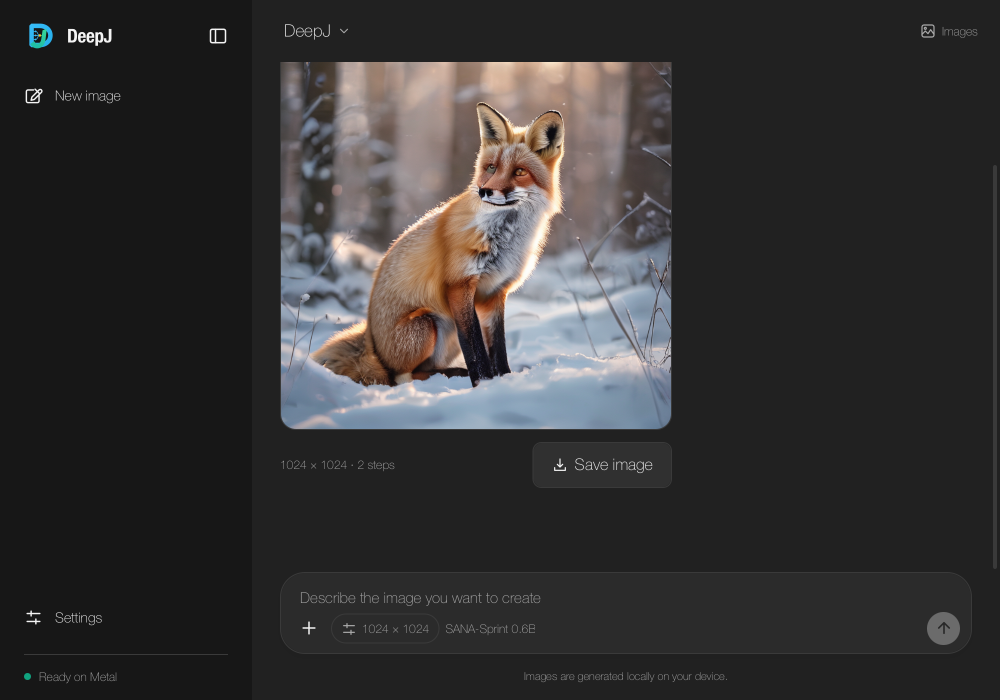
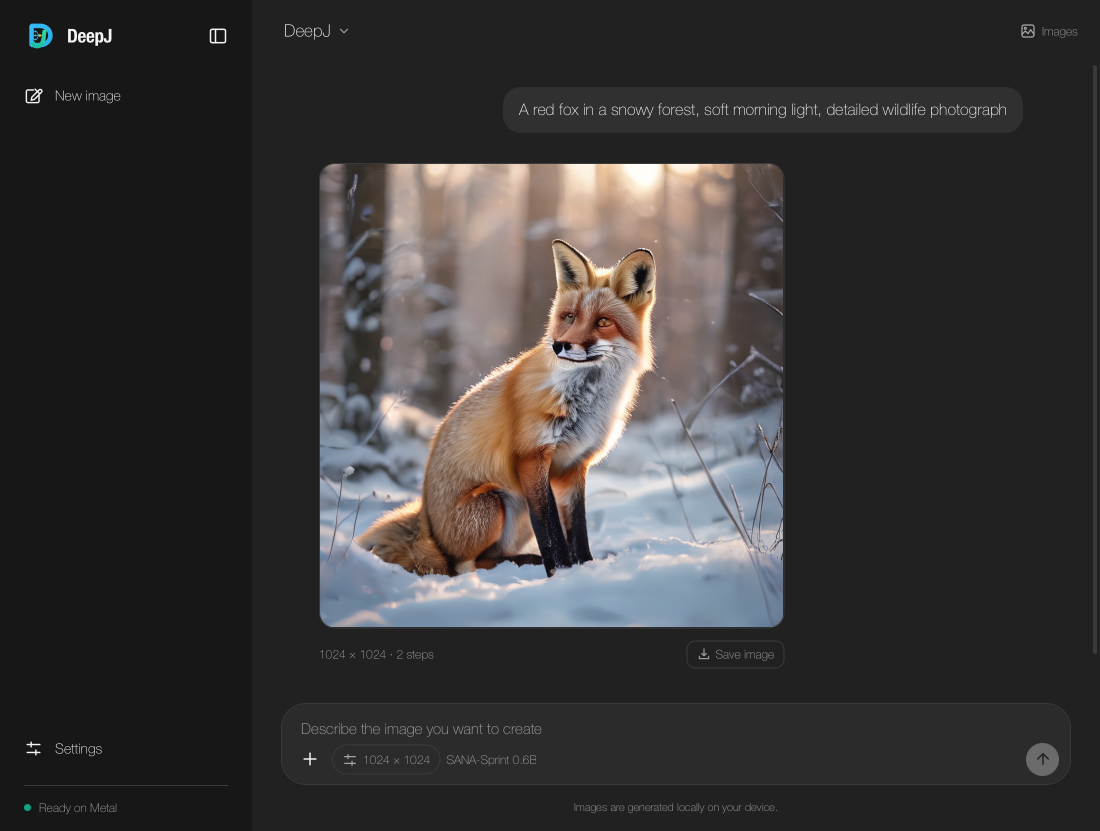
Highlight scoped inference measurements and refresh the SANA UI screenshot

diff --git a/README.md b/README.md
@@ -30,6 +30,20 @@ The optional [ONNX module](onnx/README.md) imports supported ONNX graphs for inf
 | Decoder Transformers | DeepJ Origin, Orbit, Prism, Nova, Loop, Qwen3, and Gemma 2 for causal language modeling |
 | Diffusion models | SANA-Sprint 0.6B for text-to-image and [SANA-Video 2B](docs/sana-video.md) for text-to-video generation |
 
+## Java inference, measured
+
+Qwen3-1.7B runs through DeepJ's own tensor backend. In short **FP32 tests on an Apple M4**, CPU cached decoding was faster than PyTorch, CPU prompt processing was within 8%, and Metal decode throughput was close to PyTorch MPS.
+
+| Measurement | DeepJ | PyTorch |
+|---|---:|---:|
+| CPU cached decoding | **12.17 tokens/s** | 7.99 tokens/s |
+| CPU prompt processing | **334.8 ms** | 311.2 ms |
+| Metal / MPS cached decoding | **11.77 tokens/s** | 11.82 tokens/s |
+
+Both engines used FP32 weights, batch size one, a KV cache, a 64-token prompt and the same 16 fixed continuation tokens, with full logit readback and no sampling. The CPU and Metal comparisons were separate runs; the Metal figures come from an earlier revision. These results describe this workload and precision, rather than performance across all models or dtypes.
+
+[CPU measurements and validation](docs/cpu-performance.md) · [Metal/MPS trials and setup](docs/benchmarks/qwen3-metal-m4.json)
+
 ## Install
 
 DeepJ requires JDK 20 or newer.
@@ -86,7 +100,7 @@ JAVA_TOOL_OPTIONS="-Xmx8g" mvn javafx:run
 
 The pipeline runs through DeepJ tensors on CPU or Apple Metal. A standalone image launcher is also available in the guide.
 
-![A fox generated by SANA-Sprint in the DeepJ desktop UI, with its Save image action](docs/sana-sprint-ui.png)
+![The SANA-Sprint desktop UI showing the image prompt, generated fox and compact Save image action](docs/sana-sprint-ui.png)
 
 ## Create videos with SANA-Video
 
